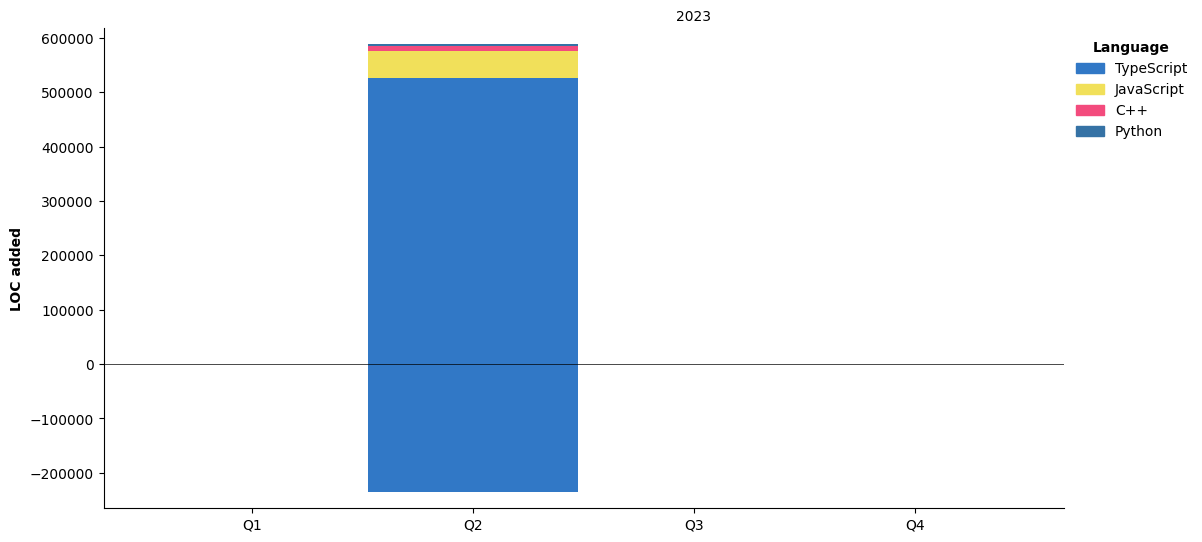
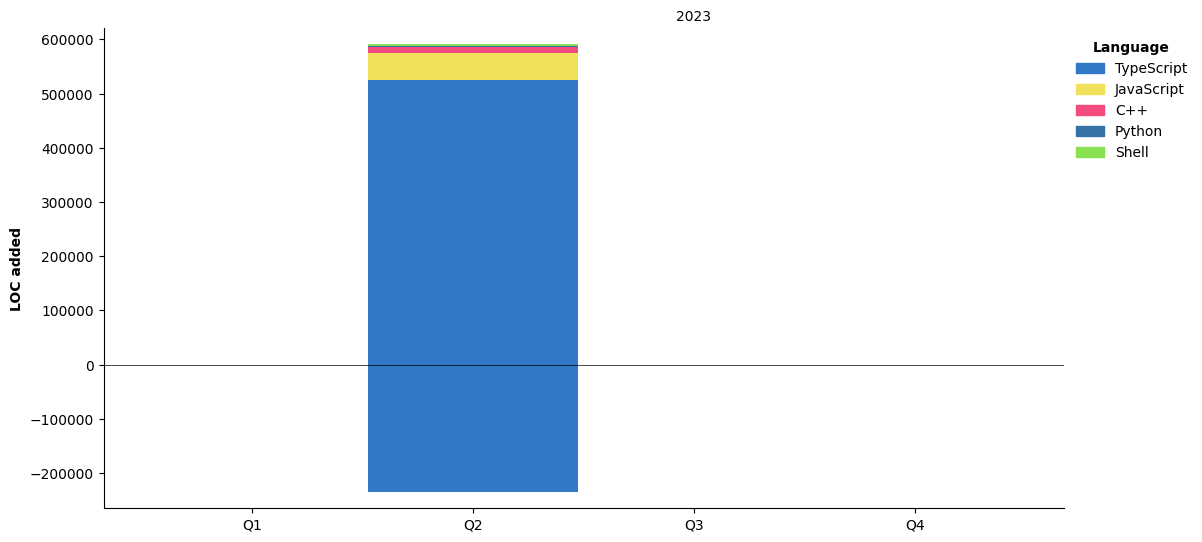
Updated with Dev Metrics

diff --git a/README.md b/README.md
@@ -38,13 +38,86 @@ Here are some ideas to get you started:
 #### :bar_chart: [每月编码时间](https://github.com/muety/wakapi)
 
 <!--START_SECTION:waka-->
+![Code Time](http://img.shields.io/badge/Code%20Time-10%20hrs%208%20mins-blue)
+
+![Profile Views](http://img.shields.io/badge/Profile%20Views-53-blue)
+
+**🐱 My GitHub Data** 
+
+> 📦 382.5 kB Used in GitHub's Storage 
+ > 
+> 🏆 42 Contributions in the Year 2023
+ > 
+> 🚫 Not Opted to Hire
+ > 
+> 📜 10 Public Repositories 
+ > 
+> 🔑 8 Private Repositories 
+ > 
+**I'm an Early 🐤** 
 
 ```text
-TypeScript   4 hrs 36 mins   🟩🟩🟩🟩🟩🟩🟩🟩🟩🟩🟩🟩🟩⬜⬜⬜⬜⬜⬜⬜⬜⬜⬜⬜⬜   51.41 %
-Markdown     1 hr 12 mins    🟩🟩🟩🟨⬜⬜⬜⬜⬜⬜⬜⬜⬜⬜⬜⬜⬜⬜⬜⬜⬜⬜⬜⬜⬜   13.49 %
-C            58 mins         🟩🟩🟨⬜⬜⬜⬜⬜⬜⬜⬜⬜⬜⬜⬜⬜⬜⬜⬜⬜⬜⬜⬜⬜⬜   10.85 %
-Vue.js       34 mins         🟩🟨⬜⬜⬜⬜⬜⬜⬜⬜⬜⬜⬜⬜⬜⬜⬜⬜⬜⬜⬜⬜⬜⬜⬜   06.38 %
-Vim Script   29 mins         🟩🟨⬜⬜⬜⬜⬜⬜⬜⬜⬜⬜⬜⬜⬜⬜⬜⬜⬜⬜⬜⬜⬜⬜⬜   05.46 %
+🌞 Morning                18 commits          ██████░░░░░░░░░░░░░░░░░░░   22.22 % 
+🌆 Daytime                27 commits          ████████░░░░░░░░░░░░░░░░░   33.33 % 
+🌃 Evening                33 commits          ██████████░░░░░░░░░░░░░░░   40.74 % 
+🌙 Night                  3 commits           █░░░░░░░░░░░░░░░░░░░░░░░░   03.70 % 
+```
+📅 **I'm Most Productive on Monday** 
+
+```text
+Monday                   23 commits          ███████░░░░░░░░░░░░░░░░░░   28.40 % 
+Tuesday                  12 commits          ████░░░░░░░░░░░░░░░░░░░░░   14.81 % 
+Wednesday                15 commits          █████░░░░░░░░░░░░░░░░░░░░   18.52 % 
+Thursday                 4 commits           █░░░░░░░░░░░░░░░░░░░░░░░░   04.94 % 
+Friday                   0 commits           ░░░░░░░░░░░░░░░░░░░░░░░░░   00.00 % 
+Saturday                 11 commits          ███░░░░░░░░░░░░░░░░░░░░░░   13.58 % 
+Sunday                   16 commits          █████░░░░░░░░░░░░░░░░░░░░   19.75 % 
 ```
 
+
+📊 **This Week I Spent My Time On** 
+
+```text
+🕑 Time Zone: Asia/Shanghai
+
+💬 Programming Languages: 
+C                        37 mins             ████████████░░░░░░░░░░░░░   46.51 % 
+Vim Script               29 mins             █████████░░░░░░░░░░░░░░░░   36.85 % 
+Text                     11 mins             ████░░░░░░░░░░░░░░░░░░░░░   14.57 % 
+Makefile                 1 min               ░░░░░░░░░░░░░░░░░░░░░░░░░   01.60 % 
+HTML                     0 secs              ░░░░░░░░░░░░░░░░░░░░░░░░░   00.47 % 
+
+🔥 Editors: 
+VS Code                  1 hr 19 mins        █████████████████████████   100.00 % 
+
+🐱💻 Projects: 
+real_time_obu_updateCode 40 mins             █████████████░░░░░░░░░░░░   50.99 % 
+Unknown Project          17 mins             █████░░░░░░░░░░░░░░░░░░░░   21.71 % 
+我的vim设置                  12 mins             ████░░░░░░░░░░░░░░░░░░░░░   15.27 % 
+cmm8pobu1_Shi2_125       5 mins              ██░░░░░░░░░░░░░░░░░░░░░░░   07.19 % 
+real_time_obuOrigen      3 mins              █░░░░░░░░░░░░░░░░░░░░░░░░   04.37 % 
+
+💻 Operating System: 
+WSL                      49 mins             ████████████████░░░░░░░░░   62.55 % 
+Windows                  29 mins             █████████░░░░░░░░░░░░░░░░   37.45 % 
+```
+
+**I Mostly Code in JavaScript** 
+
+```text
+JavaScript               3 repos             ██████░░░░░░░░░░░░░░░░░░░   25.00 % 
+TypeScript               3 repos             ██████░░░░░░░░░░░░░░░░░░░   25.00 % 
+Python                   3 repos             ██████░░░░░░░░░░░░░░░░░░░   25.00 % 
+Shell                    1 repo              ██░░░░░░░░░░░░░░░░░░░░░░░   08.33 % 
+C++                      1 repo              ██░░░░░░░░░░░░░░░░░░░░░░░   08.33 % 
+```
+
+
+
+**Timeline**
+
+![Lines of Code chart](https://raw.githubusercontent.com/XiaoYuer2022/XiaoYuer2022/main/assets/bar_graph.png)
+
+
+ Last Updated on 11/05/2023 16:08:15 UTC
 <!--END_SECTION:waka-->
